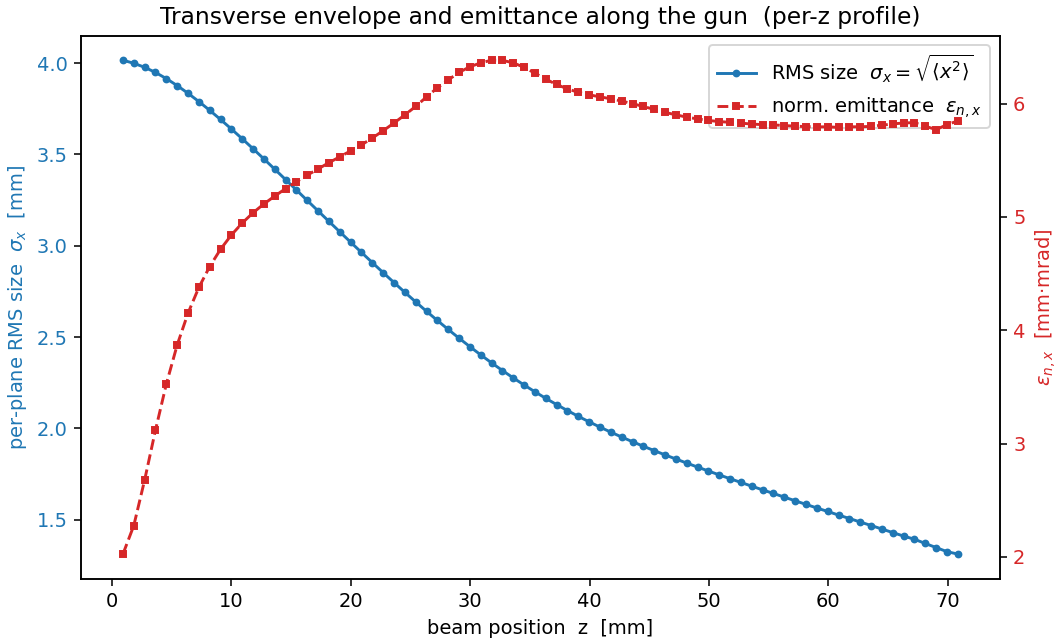
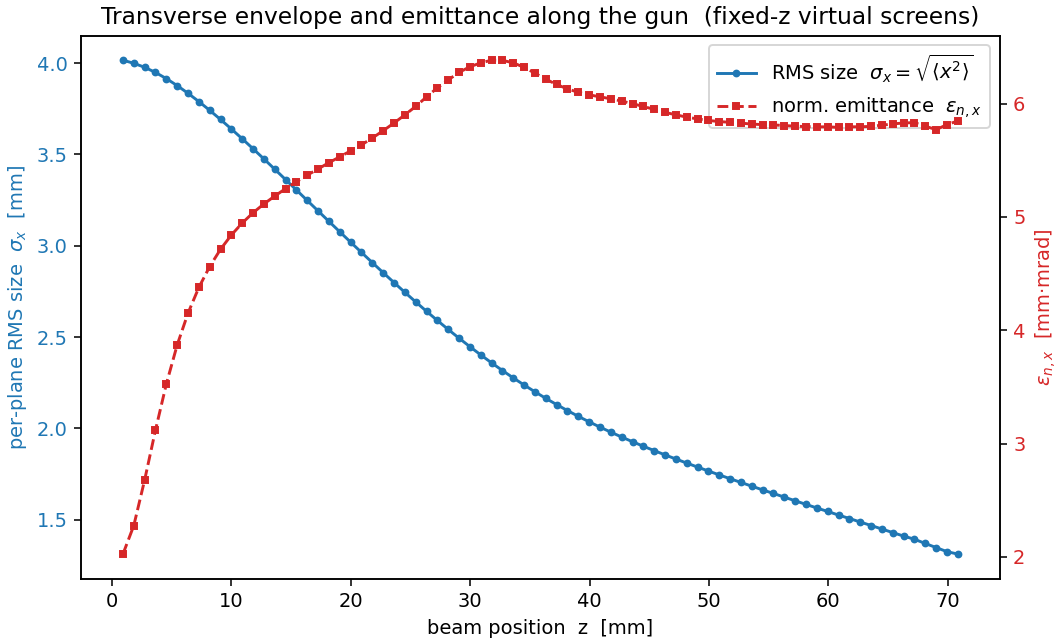
physics-review: dead-code + doc-sync cleanup after the screen-diagnostic refactor
Follow-up to 0e57102 (fixed-z virtual-screen beam envelope). Review of that
commit found no physics-correctness bug — the moment math, ux=γβ units, and
the εn,x cross-term were verified correct, and the algorithm validated against
real gun/diags. The surviving items were dead code and doc drift the refactor
left behind:

- gun/plot_gun.py: drop the orphaned per-dump sig_r/emit_nx columns and the
  now-unused rms_emit import (the envelope moved to screen_profile); retitle
  the energy_gain/beam_envelope figures and section comments from the old
  "(per-z profile, pooled over dumps)" binning to "(fixed-z virtual screens)".
- FIGURES.md: gun energy_gain + both beam_envelope entries said "vs ⟨z⟩"; the
  axis is now local screen z — update captions/body + add the screen note.
  linac_sec1 energy_gain (unchanged by 0e57102) left as ⟨z⟩.
- pipeline/beam_metrics.py: document screen_profile's preconditions
  (constant-per-id weight, linear-interp under-resolution biases emit low,
  downstream survivor-subset).
- linac_sec1/README.md: note the survivor-slice / locally-non-monotonic-tail
  caveat on the screen σ_x envelope.
- Regenerated gun beam_envelope/energy_gain figures (title text only).

Changed region(s): [[0.093, 0.0, 0.9305, 0.0621]]

diff --git a/gun/plot_gun.py b/gun/plot_gun.py
@@ -16,7 +16,7 @@ from matplotlib.colors import LogNorm
 import openpmd_api as io
 from openpmd_viewer import OpenPMDTimeSeries
 
-from pipeline.beam_metrics import rms_emit, screen_profile
+from pipeline.beam_metrics import screen_profile
 
 MC2 = 0.51099895e3           # electron rest energy [keV]
 GUN_FIELD = "gun/gun_field/gun_E.h5"
@@ -61,7 +61,6 @@ def main():
     iters = ts.iterations
 
     t_ns, zmean, ke_mean, ke_max, n_live = [], [], [], [], []
-    sig_r, emit_nx = [], []
     # Pooled (all-dump) columns for the per-z profile, kept WITH the particle id so the profile
     # is reconstructed as fixed-z virtual SCREENS (id-track each particle's crossing of every
     # z-plane), not a z-histogram: a per-dump ⟨z⟩ aggregate is meaningless for the timed quasi-DC
@@ -74,22 +73,15 @@ def main():
         t_ns.append(ts.t[i] * 1e9)
         if len(z) == 0:
             zmean.append(np.nan); ke_mean.append(np.nan); ke_max.append(np.nan)
-            sig_r.append(np.nan); emit_nx.append(np.nan)
             continue
         ke = (gamma_of(ux, uy, uz) - 1.0) * MC2
         zmean.append(z.mean() * 1e3)
         ke_mean.append(ke.mean()); ke_max.append(ke.max())
         id_pool.append(idp.astype(np.int64))
         z_pool.append(z); ke_pool.append(ke); x_pool.append(x); ux_pool.append(ux); w_pool.append(w)
-        # Single-plane RMS σ_x = sqrt(⟨(x−⟨x⟩)²⟩) [mm] (pairs with εn,x); radial RMS is √2·σ_x.
-        xm = np.average(x, weights=w)
-        sig_r.append(np.sqrt(np.average((x - xm) ** 2, weights=w)) * 1e3)
-        # εn,x [mm·mrad]: ux is normalized momentum γβx, so x[m]·ux is [m·rad], ×1e6.
-        emit_nx.append(rms_emit(x, ux, w) * 1e6)
 
     t_ns = np.array(t_ns); zmean = np.array(zmean)
     ke_mean = np.array(ke_mean); ke_max = np.array(ke_max)
-    sig_r = np.array(sig_r); emit_nx = np.array(emit_nx)
     print(f"beam: {n_live[0]} launched, {n_live[-1]} at last dump; "
           f"peak ⟨KE⟩ {np.nanmax(ke_mean):.1f} keV, max KE {np.nanmax(ke_max):.1f} keV")
 
@@ -123,7 +115,7 @@ def main():
     fig.savefig(f"{RESULTS}/beam_rz.png", dpi=140)
     print(f"wrote {RESULTS}/beam_rz.png")
 
-    # ── Fig 3: energy gain vs z (per-z profile, pooled over dumps) ─────────────
+    # ── Fig 3: energy gain vs z (fixed-z virtual screens) ─────────────────────
     fig, ax = plt.subplots(figsize=(7.2, 4.6), constrained_layout=True)
     okz = np.isfinite(kez)
     ax.plot(zc[okz], kez[okz], "o-", color="C2", ms=3, label="mean KE")
@@ -131,7 +123,7 @@ def main():
     ax.axhline(GUN_VOLTAGE / 1e3, color="k", ls=":", label=f"{GUN_VOLTAGE/1e3:.0f} keV (gun voltage)")
     ax.set_xlabel("beam position  z  [mm]")
     ax.set_ylabel("kinetic energy  [keV]")
-    ax.set_title("Beam energy gain along the gun  (per-z profile, pooled over dumps)")
+    ax.set_title("Beam energy gain along the gun  (fixed-z virtual screens)")
     ax.legend()
     fig.savefig(f"{RESULTS}/energy_gain.png", dpi=140)
     print(f"wrote {RESULTS}/energy_gain.png")
@@ -153,7 +145,7 @@ def main():
     print(f"wrote {RESULTS}/exit_phase_space.png")
 
     # ══════════════════════════════════════════════════════════════════════════
-    # Fig 5: beam_envelope.png — per-plane RMS size σ_x and emittance εn,x vs ⟨z⟩
+    # Fig 5: beam_envelope.png — per-plane RMS size σ_x and emittance εn,x vs z
     # ──────────────────────────────────────────────────────────────────────────
     okz = np.isfinite(sxz) & np.isfinite(enz)
     fig, ax = plt.subplots(figsize=(7.6, 4.6), constrained_layout=True)
@@ -162,7 +154,7 @@ def main():
     ax.set_xlabel("beam position  z  [mm]")
     ax.set_ylabel(r"per-plane RMS size  $\sigma_x$  [mm]", color="C0")
     ax.tick_params(axis="y", labelcolor="C0")
-    ax.set_title("Transverse envelope and emittance along the gun  (per-z profile)")
+    ax.set_title("Transverse envelope and emittance along the gun  (fixed-z virtual screens)")
     ax2 = ax.twinx()
     l2, = ax2.plot(zc[okz], enz[okz], "s--", color="C3", ms=3,
                    label=r"norm. emittance  $\varepsilon_{n,x}$")

diff --git a/pipeline/beam_metrics.py b/pipeline/beam_metrics.py
@@ -45,6 +45,13 @@ def screen_profile(idP, zP, wP, quantities, emit_pairs=(), nscreen=80,
     emit_pairs  : iterable of (qname, uname) (both must be in ``quantities``); returns
                   the raw rms emittance sqrt(⟨q²⟩⟨u²⟩−⟨qu⟩²) per screen for each pair.
 
+    Assumes each macroparticle's weight is constant across dumps (``wi = ws[a]`` — true for
+    these stages, where weight is set once at injection). The interpolation is linear in z, so
+    a transverse oscillation under-resolved by the dump cadence biases ``emit`` low; keep enough
+    dumps to resolve it. A particle only contributes to screens within its own z-range, so where
+    particles are lost mid-line (e.g. an iris scrape) the downstream screens describe the surviving
+    subset, not the injected beam.
+
     Returns ``(screens, out)``: ``screens`` are the plane positions [m]; ``out`` has
     ``count`` and dicts ``mean``/``rms``/``max`` (keyed by quantity name) and ``emit``
     (keyed by the ``(qname, uname)`` tuple). All moments are RAW (caller scales units)

diff --git a/FIGURES.md b/FIGURES.md
@@ -178,9 +178,10 @@ This is the field the beam sees.
 transport through the gun, including the near-cathode radial focusing as the beam accelerates.
 
 ### `energy_gain.png` — energy gain along the gun
-![Mean and max KE vs. ⟨z⟩](gun/results/energy_gain.png)
+![Mean and max KE vs. z](gun/results/energy_gain.png)
 
-Mean and max kinetic energy of the beam vs. mean position `⟨z⟩`, climbing toward the 150 keV
+Mean and max kinetic energy of the beam vs. local position `z` (reconstructed on fixed-z virtual
+screens, not a per-dump `⟨z⟩` aggregate — see `beam_envelope.png` below), climbing toward the 150 keV
 gun-voltage line (dotted). The gain tracks `∫ e·|E_z| dz` (≈ 7.5 keV by z ≈ 4 mm), approaching the
 ~150 keV cathode→exit potential drop (mean exit KE ≈ 146 keV; ~83 % of the 1 nC bunch reaches the exit).
 
@@ -192,13 +193,16 @@ Left: longitudinal phase space (`z` vs. `KE`) at the last dump. Right: the final
 injector.
 
 ### `beam_envelope.png` — transverse envelope and emittance
-![per-plane RMS size σ_x and normalized emittance vs ⟨z⟩](gun/results/beam_envelope.png)
+![per-plane RMS size σ_x and normalized emittance vs z](gun/results/beam_envelope.png)
 
 The near-cathode focusing that `beam_rz.png` shows only as three snapshots, quantified along the
-gun. **Blue:** the per-plane RMS size `σ_x = √⟨(x−⟨x⟩)²⟩` (weighted, mean-centered — the same
-convention as `plot_chain`, so the two figures agree on the same dump) contracts from ≈ 4.0 mm at launch to a ≈ 2.8 mm waist near the exit as the diverging cathode
-emission is focused by the radial gun field (the full-radial `√⟨r²⟩ = √2·σ_x` is ≈ 5.7 → 4.1 mm).
-**Red (twin axis):**
+gun. Both curves are reconstructed on **fixed-z virtual screens** (`pipeline/beam_metrics.screen_profile`,
+not a z-histogram): each macroparticle's id-trajectory across the dumps is interpolated to every
+z-plane it crosses, so the profile is local in `z` (no per-dump `⟨z⟩` pooling) and `εn,x` is smooth
+rather than carrying bin-to-bin sampling jitter. **Blue:** the per-plane RMS size
+`σ_x = √⟨(x−⟨x⟩)²⟩` (weighted, mean-centered — the same convention as `plot_chain`) contracts from
+≈ 4.0 mm at launch to a ≈ 2.8 mm waist near the exit as the diverging cathode emission is focused by
+the radial gun field (the full-radial `√⟨r²⟩ = √2·σ_x` is ≈ 5.7 → 4.1 mm). **Red (twin axis):**
 the normalized transverse emittance `εn,x = √(⟨x²⟩⟨ux²⟩ − ⟨x·ux⟩²)` grows as space charge and
 field nonlinearities act — the beam-quality cost of the transport.
 
@@ -311,8 +315,10 @@ sub-relativistic beam into a phase-velocity-c wave.
 ### `beam_envelope.png` — focusing and adiabatic damping
 ![Linac: σ_x and surviving charge](linac_sec1/results/beam_envelope.png)
 
-**Top:** RMS transverse size σ_x vs ⟨z⟩ with the structure bore (9.55 mm) marked; **bottom:**
-surviving charge fraction q/q_inj normalised to the **injected** charge. The curve drops at the
+**Top:** local RMS transverse size σ_x vs z — reconstructed on fixed-z virtual screens
+(`pipeline/beam_metrics.screen_profile`), not the per-dump projected RMS — with the structure bore
+(9.55 mm) marked; **bottom:** surviving charge fraction q/q_inj vs per-dump ⟨z⟩, normalised to the
+**injected** charge. The curve drops at the
 first dump (the r > 9.547 mm iris collimation) then decays through the RF-capture loss. The
 surviving slice adiabatically damps (σ_r ∝ 1/√(γβ)) as it accelerates.
 

diff --git a/linac_sec1/README.md b/linac_sec1/README.md
@@ -201,7 +201,10 @@ writing five figures to `results/`:
   each macroparticle's id-trajectory across the volumetric dumps is interpolated to every z-plane
   it crosses (forward/monotonic z), so σ_x(z) is local rather than the per-dump **projected** RMS
   (which mixes the beam's whole z-extent at each dump). Real envelope oscillation from the
-  injection mismatch survives; the projection smear does not. The survival panel is per-dump,
+  injection mismatch survives; the projection smear does not. Each screen describes only the
+  particles that reach it, so downstream of the RF-capture loss σ_x(z) is the **surviving-slice**
+  envelope, not the full injected beam (the RF-rejected slipping tail, which can be locally
+  non-monotonic in z, drops out of its downstream screens rather than biasing them). The survival panel is per-dump,
   normalised to the **injected** charge, showing the iris-collimation drop at the first dump
   (r > RMAX = 9.547 mm scrape) followed by the RF-capture loss.
 - `exit_spectrum_capture.png` — exit energy spectrum (pC/bin) and the captured fraction **of the
